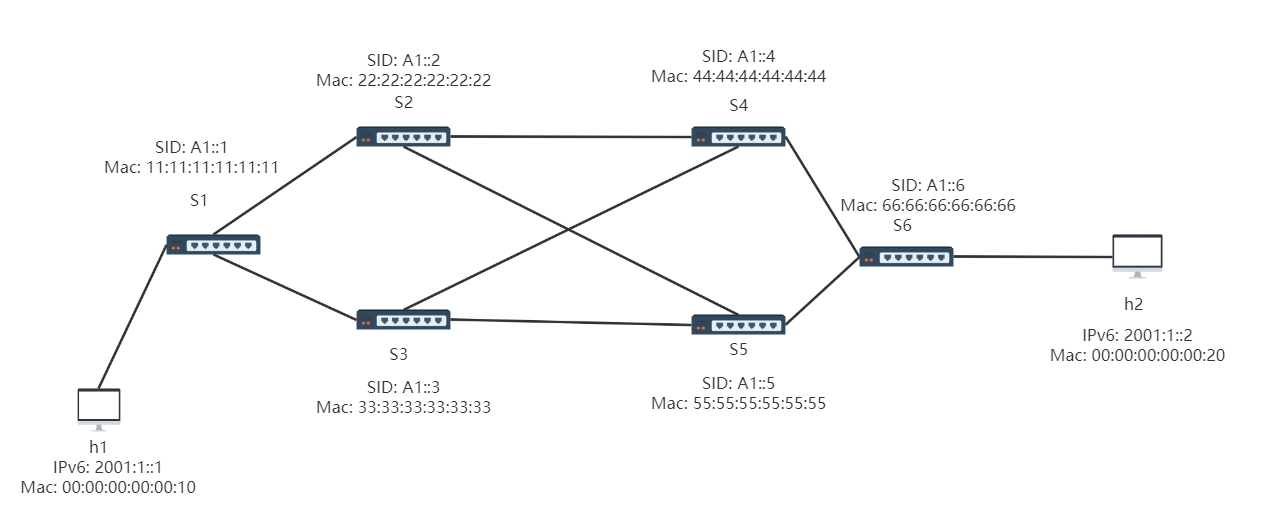
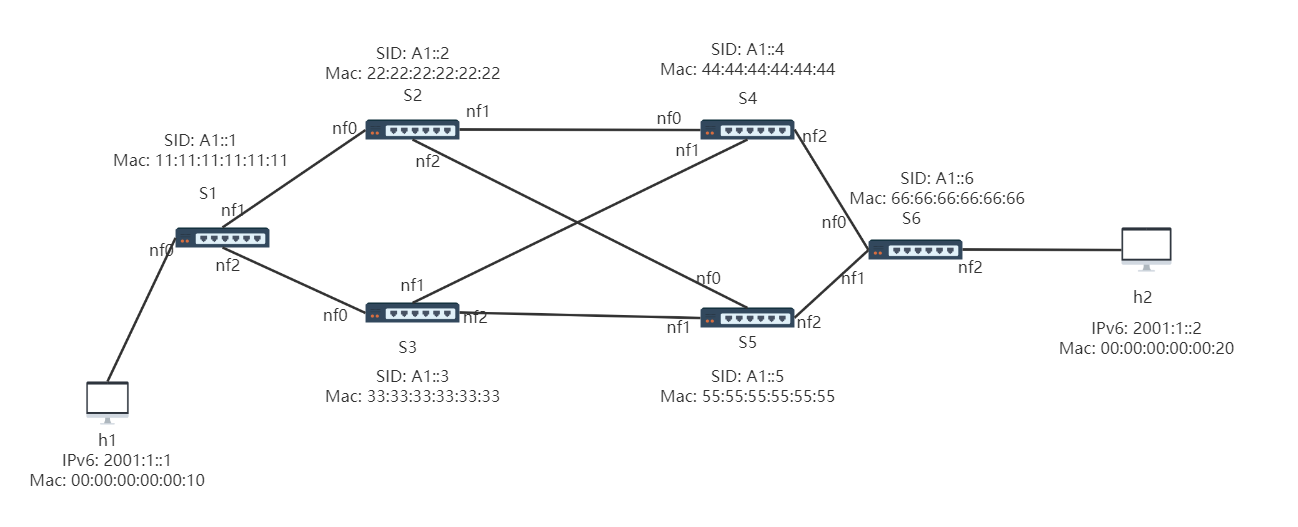
update

diff --git a/README.md b/README.md
@@ -11,5 +11,19 @@ Software Tools: Vivado 2018 + SDNet v2018.2
 
 Hardware: NetFPGA SUME
 
-## 3. Topology test
+## 3. Topology Test
 <img src="images/topo-srv6.png" style="zoom:50%;" />
+
+Segment Policy 1: h1 -> s1 -> s2 -> s4 -> s6 -> h2
+
+### 3.1 Test P4 Program
+
+* Test source node s1
+```
+commands-src.txt
+
+
+
+
+
+```
